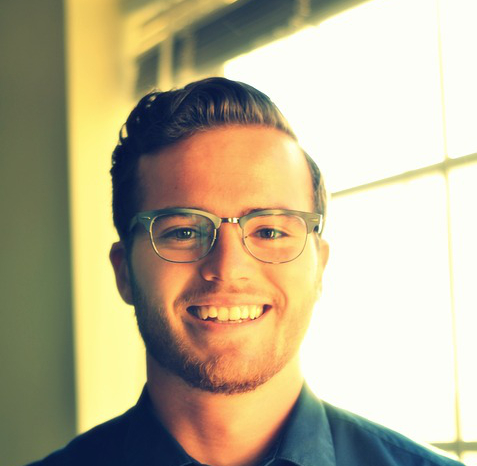
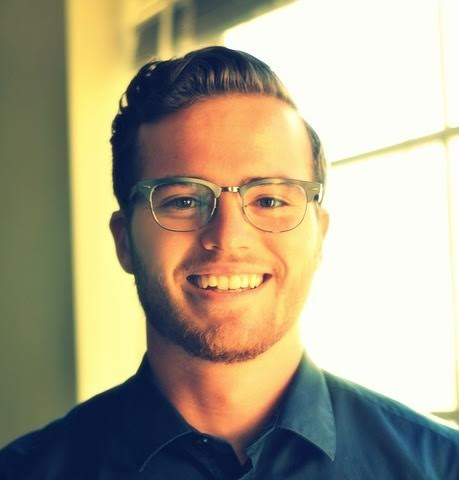
Added new pictures

diff --git a/style.css b/style.css
@@ -23,7 +23,7 @@ body {
 	padding-top: 110px; /* navbar height + 10 */
 }
 .about > .jumbotron  {
-	background-image: url("../res/tower.jpg");
+	background-image: url("../res/about.jpeg");
 }
 
 .services > .jumbotron {
@@ -39,7 +39,7 @@ body {
 }
 
 .contact > .jumbotron {
-	background-image: url("../res/contact.jpg");
+	background-image: url("../res/contact_2.jpeg");
 }
 
 .jumbotron > p {
